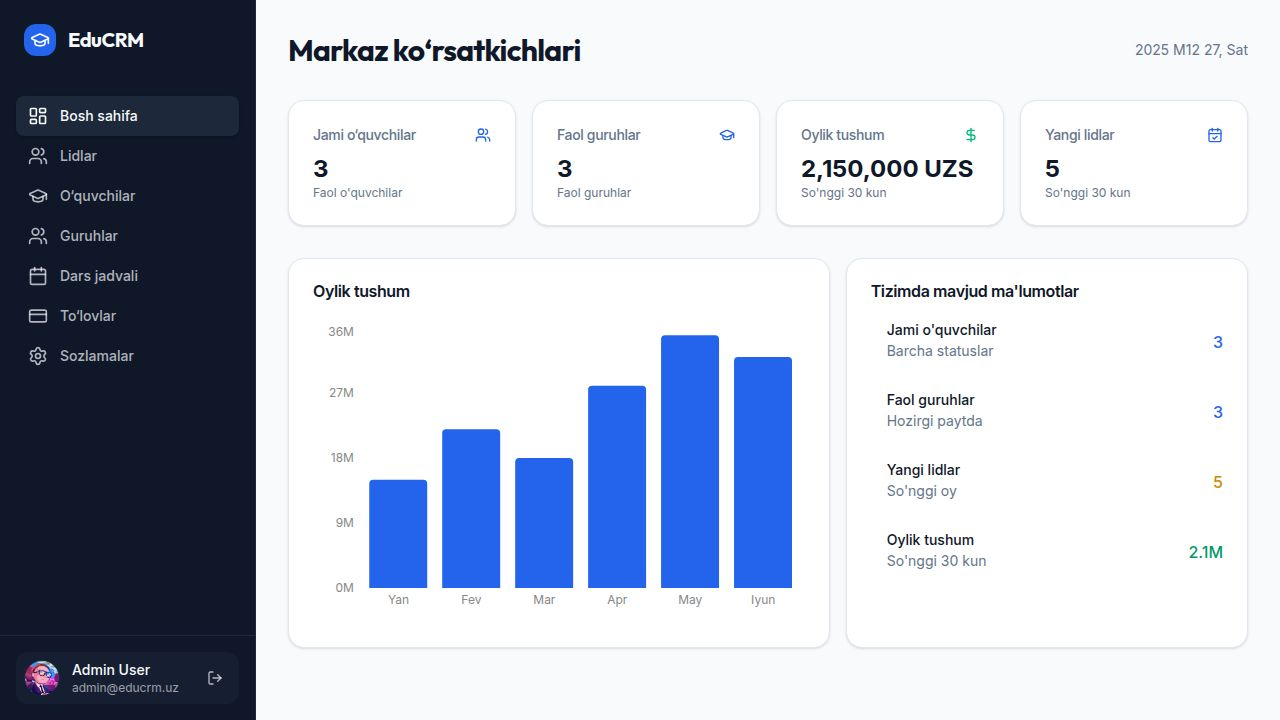
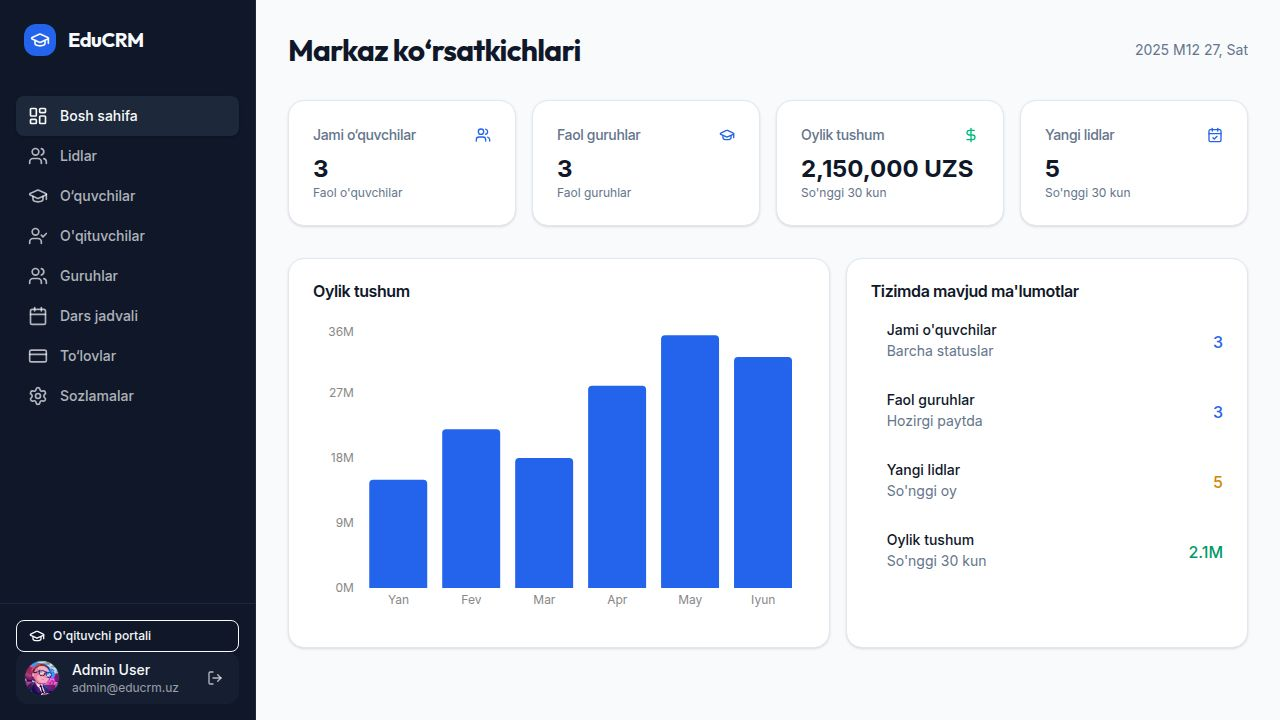
Add link to teacher portal in sidebar footer
Add a navigation link to the teacher login page within the AppLayout component's sidebar footer.

Replit-Commit-Author: Agent
Replit-Commit-Session-Id: 40c82363-2d7f-45c1-8acd-671c1740c224
Replit-Commit-Checkpoint-Type: full_checkpoint
Replit-Commit-Event-Id: 18e16926-56ab-4770-8df5-4a72d6e66a85
Replit-Commit-Screenshot-Url: https://storage.googleapis.com/screenshot-production-us-central1/80beba5e-d624-4f38-ba97-13901c495b5c/40c82363-2d7f-45c1-8acd-671c1740c224/ffLdFHf
Replit-Helium-Checkpoint-Created: true

diff --git a/client/src/components/layout/AppLayout.tsx b/client/src/components/layout/AppLayout.tsx
@@ -64,7 +64,13 @@ export function AppLayout({ children }: { children: React.ReactNode }) {
         })}
       </nav>
 
-      <div className="p-4 border-t border-sidebar-border">
+      <div className="p-4 border-t border-sidebar-border space-y-3">
+        <Link href="/teacher-login">
+          <Button variant="outline" size="sm" className="w-full justify-start gap-2" data-testid="link-teacher-login">
+            <GraduationCap className="w-4 h-4" />
+            O'qituvchi portali
+          </Button>
+        </Link>
         <div className="flex items-center gap-3 p-2 rounded-lg bg-sidebar-accent/50">
           <Avatar className="h-9 w-9 border border-sidebar-border">
             <AvatarImage src="https://github.com/shadcn.png" />
